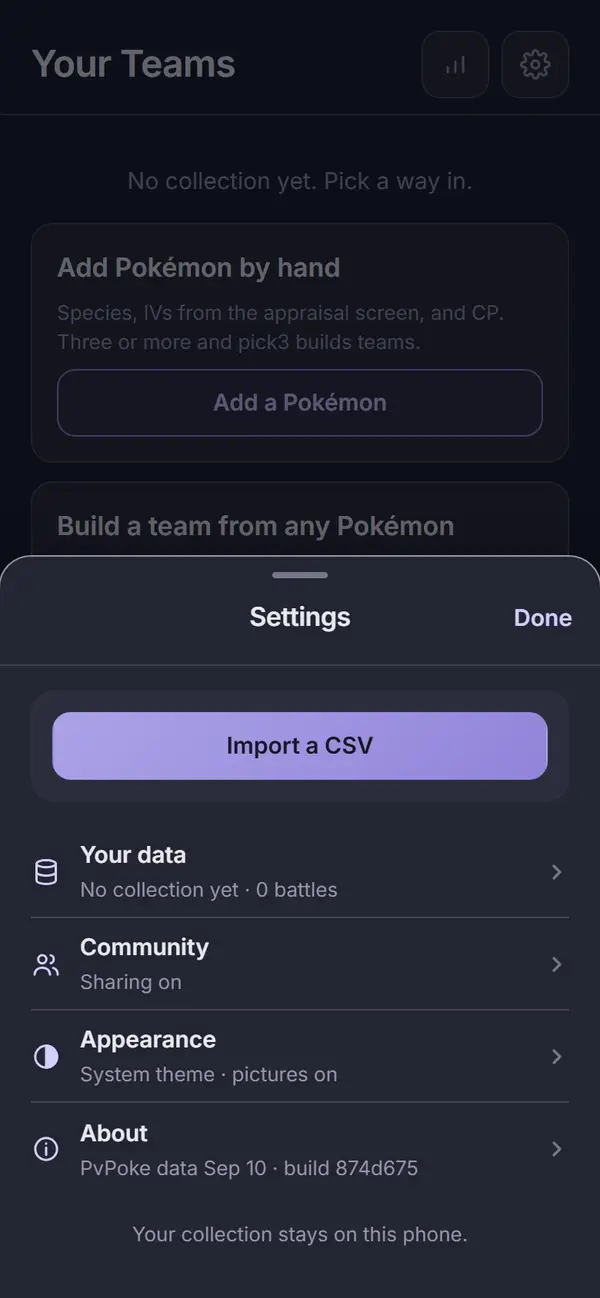
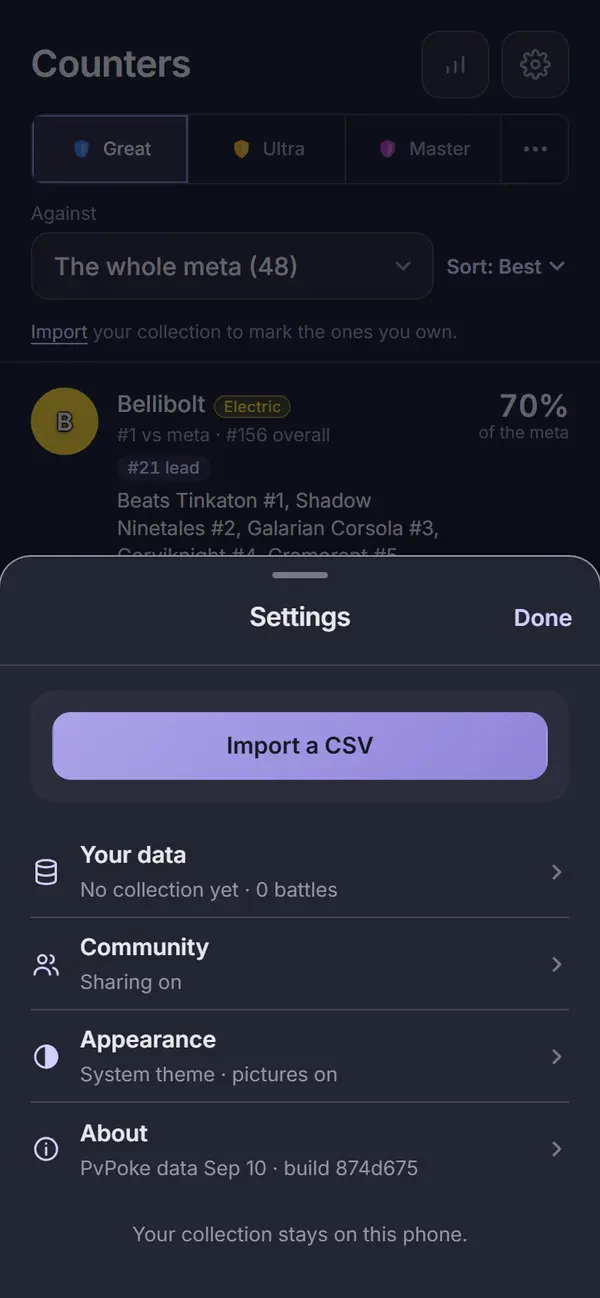
Design: Counters audit record
The Counters record for Travis to sign: the captures from the Task 6
fix round's audit run (aedfd95, PICK3_BUILD=874d675), both themes, as
WebP (the full-page 08-counters split in two at a row divider, since it
passes WebP's height limit); the automated checks, re-run for lint,
typecheck, tests, check-colors and check-tokens; both checklists; the
grid time; findings and fixes; the plan's and the ledger's rulings;
visible changes outside Counters; open items. Sign-off unticked.

Settings: the no-collection hub pair is re-converted (it now opens from
the Counters cog), with an after sign-off row and its round-3 open item
marked done. Its sign-off line is unchanged.

Claude-Session: https://claude.ai/code/session_01QpDSW9ZhLWToL3VMBP1mJq

diff --git a/docs/design/audits/counters.md b/docs/design/audits/counters.md
@@ -1,0 +1,296 @@
+# Audit: Counters
+
+Piece: 4, round 3 (Counters, with Who Beats X). Inventory entries:
+`docs/design/inventory/2026-09-22-inventory.md`, page 6 (Who Beats X) and page 7 (Counters, whole
+meta). Intake entry: `docs/design/inventory/2026-09-23-design-intake.md`, "Design 4: Common
+components, Navigation tab" (back and jumps); the approved renders are the ones from chat on
+2026-09-26 (Counters as one page with an Against picker, the full shield grid on its rows). Spec:
+`docs/superpowers/specs/2026-09-26-design-rest-of-app-design.md`, "Decisions" and "Counters (and
+Who Beats X)". Plan: `docs/superpowers/plans/2026-09-28-counters.md`. Branch `rest-of-app`,
+commits `fc35884` to `aedfd95`.
+
+Counters and Who Beats X are now one page. An Against picker chooses the whole meta or one
+Pokémon. Against one Pokémon, each row shows all nine shield pairings. Rows are not links; each
+row has labeled links. Opened from Your Meta, the page has a real Back.
+
+Your decisions for this page (spec, "Decisions", 2026-09-26):
+
+- **One page with an Against picker** in place of two pages that looked like two versions.
+- **The full nine-cell shield grid against one opponent** ("I like the full shield matchup. That
+  is what people are coming for that pvpoke doesn't provide"), not a percentage and not the
+  equal-shields row alone.
+- **Rows stop being links;** each row carries labeled links that say where they go ("That works").
+
+A note on sprites: this worktree's game data has no sprites, so Pokémon show type-colored
+initials, as on every signed record. In the full-page `08-counters`, rows far down the page show a
+broken-image icon in the dark capture (their sprite requests were still pending when the shot was
+taken). No sprite code changed.
+
+## Screenshots
+
+Dark and light at 390px, one pair per state, all from the Task 6 fix round's `npm run web:audit`
+run on 2026-09-28 (the code committed as `aedfd95`, `PICK3_BUILD=874d675`), converted to WebP
+(600px wide, quality 72). `08-counters` is the whole page, 80 rows; at 600px it is 26732px tall,
+past WebP's limit, so it is two images split at a row divider (rows 1 to 40, then 41 to 80).
+
+| State | Dark | Light |
+| --- | --- | --- |
+| `08-counters`, rows 1 to 40: the top header (meta.pick3.gg, cog), the league switcher, "Against: The whole meta (48)" with the filter icon, "PvPoke weights only (11 of 15 battles logged)" with "Sort: Best" on one line, then rows: token, name and types, "#1 vs meta · #156 overall", role tag, Beats and Loses, "70%" over "of the meta", "Build a team around it ›" | ![](img/08-counters-dark.webp) | ![](img/08-counters-light.webp) |
+| `08-counters`, rows 41 to 80: "View yours ›" beside Build on Flamigo; the last row, Charizard #80, ends above the tab bar | ![](img/08-counters-end-dark.webp) | ![](img/08-counters-end-light.webp) |
+| `counters-filters`: the Filters sheet, "Own or can build" chosen, the filter icon reads 1, rows behind filtered (11 of 80), "Build a team around it ›  View your Meltan ›" on one line | ![](img/counters-filters-dark.webp) | ![](img/counters-filters-light.webp) |
+| `18b-counters-no-collection`: no filter icon, "Sort: Best" beside the picker, "Import your collection to mark the ones you own." on one line, rows with only "Build a team around it ›" | ![](img/18b-counters-no-collection-dark.webp) | ![](img/18b-counters-no-collection-light.webp) |
+| `settings-hub-no-collection`: the Settings hub opened from the Counters cog (see Visible changes) | ![](img/settings-hub-no-collection-dark.webp) | ![](img/settings-hub-no-collection-light.webp) |
+| `23-counters-vs`: from Your Meta, "‹ Back", "Counters" centred, the cog; "Tinkaton" in the picker; "PvPoke's movesets; your log doesn't apply"; each row's shield grid with "shields" under it; Seismitoad (9 of 9) at #1, Charizard (8 of 9) at #2 | ![](img/23-counters-vs-dark.webp) | ![](img/23-counters-vs-light.webp) |
+| `counters-vs-filling`: the same page mid-fill (the worker held at a debugger pause), scrolled to where filled grids end: one filled grid, then Shadow Milotic and Shadow Charjabug with empty cells, still in the incoming order (#31, #32) | ![](img/counters-vs-filling-dark.webp) | ![](img/counters-vs-filling-light.webp) |
+| `24-counters-vs-outsider`: against Shadow Dragonite (not in PvPoke's meta group, 300 species simulated on the device), grids filled, "#1 vs Shadow Dragonite ·" then "#63 overall" kept together | ![](img/24-counters-vs-outsider-dark.webp) | ![](img/24-counters-vs-outsider-light.webp) |
+| `counters-against`: the Against sheet idle: the search at the top, focused, and "The whole meta ›" under it | ![](img/counters-against-dark.webp) | ![](img/counters-against-light.webp) |
+| `counters-against-search`: "mar" typed, 15 matches in the compact token grid, The whole meta hidden | ![](img/counters-against-search-dark.webp) | ![](img/counters-against-search-light.webp) |
+| `counters-against-scrolled`: the same matches box scrolled to its end (Mareanie to S. Mareep) | ![](img/counters-against-scrolled-dark.webp) | ![](img/counters-against-scrolled-light.webp) |
+| `counters-unranked`: `#/counters?vs=magikarp`: "Magikarp" in the picker, the filter icon, no line and no Sort, then "PvPoke does not rank Magikarp in Great League, so pick3 has no moveset to simulate it with." | ![](img/counters-unranked-dark.webp) | ![](img/counters-unranked-light.webp) |
+
+The script checks as it shoots: the sub header's title is centred (it logged "-0.0px") and Back
+reads "Back" and lands on `#/meta`; the row link text starts on the name column ("0.0px"; fails
+past 1px); `counters-filters` fails if the first row with two links wraps them; the no-collection
+page has no filter icon and the exact Import line; `counters-unranked` has no line and no Sort;
+`counters-vs-filling` waits for a filled cell, an empty cell and the loading bar;
+`counters-against-scrolled` fails if "mar" stops filling the box.
+
+Not captured, covered by `apps/web/test/counters.test.tsx`: the loading bar and its grid stage
+("Playing every shield pairing on this phone"; in `counters-vs-filling` it is above, scrolled away);
+the "shields" `Term` open; the Sort dropdown open (a native picker); "Nothing here yet. Try another
+filter."
+
+## Grid time
+
+The spec's estimate was about 0.5 s for 720 battles (80 rows, nine each) in Node.
+
+- **Node, desktop (Task 1):** 280 to 430 ms for 720 battles, two runs each against Altaria,
+  Charjabug and Quagsire (an outsider).
+- **The built app, desktop (Task 6):** the outsider run, Shadow Dragonite, took 160 to 181 ms for
+  its grids across runs (165 ms in the run these images come from, after simulating 300 species;
+  the whole result at 516 ms). The Tinkaton run logged 4321 ms, but that number includes the
+  deliberate debugger pause that holds the worker for `counters-vs-filling`, so it is not a grid
+  time. An earlier unheld probe of Tinkaton: 10 batches of 8 rows in about 210 ms.
+
+Not measured on a phone (see Open items).
+
+## Automated checks
+
+- [x] `npm run web:audit` clean for this page's screens (all ten names above in `AUDIT_ENFORCED`,
+      plus `settings-hub-no-collection`): the Task 6 fix round's run on the `aedfd95` code with
+      `PICK3_BUILD=874d675` exited 0 with zero findings on every enforced name in both themes and
+      every enforced name captured. No NEVER line; the only "Not on screen, unmeasured" lines are
+      the known eight `settings-about-leaves` ones, each measured in `settings-about`. 67 findings
+      remain on screens not yet redesigned (Welcome, Import, Scan list, Report, Add Pokémon), none
+      failing. I did not re-run it for this record. The audit does not check text scrolled out of
+      a fixed-height list (Open items); `counters-against-scrolled` covers Counters' one such list.
+- [x] no console errors: the run printed no "Browser errors" section.
+- [x] `npm run lint`, `npm run typecheck`, `npm test`, `npm run check-colors`, `npm run
+      check-tokens`: re-run for this record on 2026-09-28 on `aedfd95`. lint exit 0; typecheck
+      exit 0; 147 files, 1426 tests passed; check-colors exit 0; "check-tokens: ok". `npm run
+      ui:audit` (the ui Select rule now shared with the Against picker): "gallery audit: clean in
+      dark and light" in Task 6, not re-run here.
+
+## Aesthetics
+
+- [x] colors from tokens, in their roles: violet on what you tap (the header icons, "Sort: Best",
+      the filter icon and its badge, the row links, the selected league); green and red only as
+      the W and L cells of the grid, the outcome colors, as on Log a Battle (`23-counters-vs`); no
+      pink (the grid is a simulation, not measured data) and no destroying
+      red anywhere (all captures). `check-colors` clean.
+- [x] at most four text levels, one page title: "Counters"; the row name and the score; the rank,
+      Beats and Loses lines; tags, "of the meta" and the grid's axis and caption (`08-counters`,
+      `23-counters-vs`). Each sheet has its own title ("Filters", "Against").
+- [x] one filled primary button: none on the page, which is right, since every action is a row
+      link or a control (all captures). Settings' "Import a CSV" is the sheet's own
+      (`settings-hub-no-collection`).
+- [x] chips tapped, tags read: the old chips are gone; the ownership choice is a `Seg` in the
+      Filters sheet (`counters-filters`); types and role tags are read-only, and the overall-rank
+      tag is gone from the role tags, since the rank line already has it (`08-counters`; tested).
+- [x] the right header variant: `Header variant="top"` "Counters" with meta.pick3.gg and the cog
+      on the tab (`08-counters`, `18b-counters-no-collection`, `counters-unranked`);
+      `Header variant="sub"` with "Back", the title centred and the cog when jumped to from Your
+      Meta (`23-counters-vs`, `counters-vs-filling`, `24-counters-vs-outsider`).
+- [x] rows align; gutters and the 8px base hold: one gutter from the header to the last row; link
+      text on the name column (measured, 0.0px); grids beside the text with room, none crowding it
+      (`23-counters-vs`). Exception under Open items: a long "View your Shadow Rookidee ›" wraps to
+      its own line, about 2px left of the link above it (`08-counters`, row 40).
+- [ ] sprites unchanged: cannot confirm (no sprite build, see the top). No sprite code changed.
+- [x] at most one line of text before the first result: the facing line, the one-opponent line or
+      the Import line, each one line with Sort beside it or above it (`08-counters`,
+      `23-counters-vs`, `18b-counters-no-collection`); none under an unranked opponent
+      (`counters-unranked`). The two description paragraphs are gone.
+- [x] light as readable as dark: eleven matched pairs, and the audit's contrast pass is clean in
+      both themes.
+
+## Functionality
+
+- [x] every "must keep" from inventory pages 6 and 7: a counter list for any one opponent,
+      simulated on the device, the top 300 for an outsider (`24-counters-vs-outsider`); per row
+      the rank against this opponent, the overall rank, types, role tags, Beats and Loses with
+      ranks (`08-counters`, `23-counters-vs`), ownership as "View yours ›" or "View your Meltan ›"
+      (`counters-filters`), and the percentage on the whole meta (against one opponent the grid
+      replaces it, your decision); the ownership filter and the paths to your Pokémon and to Build
+      (tested); the honesty lines, now "PvPoke's movesets; your log doesn't apply" and the
+      unranked empty state (`23-counters-vs`, `counters-unranked`); a meta.pick3.gg link lands in
+      its league (tested); the facing weight line on the whole meta (`08-counters`).
+- [x] every control does what its label says (tests): the cog opens Settings (and the capture now
+      opens it from this cog); the picker reads "The whole meta (48)" or the opponent and opens
+      Against; typing filters species, The whole meta shows only with an empty search; choosing
+      replaces the history entry and keeps the back mark; Sort offers Best and Under the radar;
+      the Filters `Seg` filters rows and the icon reads "Filters, 1 on"; "Build a team around it ›"
+      sets Build's lead and goes to Build; the View links open the Pokémon's page.
+- [x] back returns to the origin with filters and scroll: Back from a jump returns to Your Meta,
+      even after trying several opponents (tested; the script checks it lands on `#/meta`); Back
+      from a Pokémon's page returns with the filter, the sort and the scroll (tested,
+      `scrollTo(0, 240)`); each list keeps its own scroll (tested). One gap by ruling 11.
+- [x] input layout rule: the Against sheet puts the search first, the matches directly under it
+      in a fixed-height box that scrolls on its own, and The whole meta last, hidden while
+      searching (`counters-against`, `counters-against-search`, `counters-against-scrolled`).
+- [x] icon buttons named; focus visible: "Settings", "meta.pick3.gg, the community meta",
+      "Filters" or "Filters, 1 on", the picker named by its label and value ("Against Tinkaton"),
+      the Sort combobox named "Sort", the grid read as "Wins N of 9 shield pairings" (tests); the
+      picker shares the ui Select's focus ring.
+- [x] product rules: everything runs on the device; no new outbound call; `index.html` and
+      `connect-src` unchanged; the collection stays in IndexedDB. Assumptions: the one-opponent
+      line and the "shields" `Term` say what each cell is (PvPoke's movesets and default IVs).
+- [x] tests cover the new behavior: `apps/web/test/counters.test.tsx` (23 tests: headers and
+      Back, the picker and the Against sheet, replace-navigation, the line and Sort, the Filters
+      sheet, no collection, rows not links, the grid and its `Term`, the links, the round trip,
+      loading and empty cells, per-list scroll, re-sort in place, both empty messages);
+      `countersGrid.test.tsx` (5: the stream, drops on a league or opponent change, grids keep
+      filling off the page, the WorkerHost routing); `shieldGrid.test.tsx` (6);
+      `packages/engine/test/counters/counters.test.ts` (the grid, its order, batches, the
+      movesets); `store.test.tsx` and `yourMetaScreen.test.tsx` (the back mark).
+
+## Findings and fixes
+
+| Finding | Fix | Commit |
+| --- | --- | --- |
+| Task 1: an opponent in PvPoke's meta group battled at its rankings moveset in the grid, but at its meta-group moveset in the matrix that chose the 80, so equal-shield cells could disagree with the list for 3 Great League species (Shadow Forretress, Shadow Sableye, Talonflame). | The meta group's moveset (ruling 9). | `929a4b3` |
+| Task 1 review, Important: an outsider's grid moveset differed from the one its simulated column used, for 18 species in Ultra and Master. | One helper for both. | `b1014b6` |
+| Task 1 review: a species the meta group lists twice (Shadow Forretress) took its last listing. | Its first listing, the matrix's first column. | `b1014b6` |
+| Task 2: a dropped run's half-filled rows could show later, looking finished with empty cells. | A drop also clears them. | `c82d74c` |
+| Task 5 review, Important: one shared scroll key restored the whole meta's offset onto an opponent's list. | One key per list. | `1d43539` |
+| Task 5 review: the Against search did not take focus (the sheet took it back). | The search takes focus after the sheet's own. | `1d43539` |
+| Task 5, looking: "Sort: Best" wrapped under a long line; two row links wrapped onto two 44px lines. | Sort does not wrap; the links row spans the row. | `a15920f` |
+| Task 6: without a collection the Import line wrapped, leaving "own." alone beside Sort. | Copy kept; Sort moves beside the picker (ruling 16). | `f694bb7` |
+| Task 5 review: the picker copied the ui Select's CSS. | The ui rule covers both (Visible changes). | `f694bb7` |
+| Task 6: "#1 vs Shadow Dragonite · #63 overall" broke before "overall". | A no-break space keeps "#63 overall" together. | `f694bb7` |
+| Audit: the Filters `Seg`'s "All" was 39x44. | 44px wide. | `f694bb7` |
+| Task 6: the audit did not report Against matches scrolled out of the box. | `counters-against-scrolled` (ruling 18); the tool fix is ruling 12. | `f694bb7` |
+| Controller, on `23-counters-vs`: the row links started at the row's left edge, under the token. | They start on the name column; the script measures it. | `aedfd95` |
+| Task 6 review: under an unranked opponent, the one-opponent line and Sort sat over nothing. | Both hidden there (ruling 17). | `aedfd95` |
+
+## Rulings
+
+From the plan:
+
+1. **The grid uses the matrix's inputs:** PvPoke default IVs, the rankings' movesets, the league's
+   CP cap, the same battle settings; each cell is the simulator's rating. Ruling 9 refines the
+   opponent's moveset. [If wrong: the grid disagrees with the list it sits in.]
+2. **Order against one opponent:** cells won out of nine, then the mean rating, then PvPoke's
+   overall rank. While grids fill, rows keep their first order; the list re-sorts once at the end.
+   [If wrong: one sort.]
+3. **Streaming:** rows first with empty grids, then a batch of 10 grids at a time, then the sorted
+   result with the grid time; anything from a run whose league or opponent changed is dropped.
+   [If wrong: rows wait for all 80 grids.]
+4. **The back mark is `from=1` on the link.** Your Meta's "Who beats it" adds it; the Against
+   picker keeps it. [If wrong: one link parameter.]
+5. **The Against sheet searches Log a Battle's species list**, in the same compact token grid and
+   cap; "The whole meta" is last, hidden while searching. [If wrong: the sheet's source.]
+6. **Filters is a `Seg` in a sheet; Sort is an inline dropdown;** the filter count is 1 when the
+   filter is not All. [If wrong: two controls.]
+7. **Capture names** as listed above; `09-counters-own` is gone with the chips. [If wrong: names.]
+
+From the controller during the build:
+
+8. **Dead components go with their tests:** `MetaButton` is removed with its test; `HeadCog` stays,
+   since the older header (Import, Shared team, Add Pokémon) still uses it. [If wrong: re-add one
+   small component.]
+9. **A meta-group opponent battles at the meta group's moveset** (the one that chose the 80); an
+   outsider at its rankings moveset (the one its simulated column used). [If wrong: a one-line
+   swap; 3 Great League species show different equal-shield cells.]
+10. **The grid's "Wins N of 9 shield pairings" label stays on Log a Battle's card too.** It adds
+    the count the one-word verdict lacks. [If wrong: one extra announcement per member for
+    screen-reader users.]
+11. **Going back to an opponent already visited in the Against sheet keeps the current scroll,**
+    not that list's saved one. Nothing wrong lands. [If wrong: a scroll, on a rare path.]
+12. **The audit's scroll-clip gap is fixed in this branch's final fix wave,** with a full
+    `web:audit` re-run. [If wrong: a bigger final wave, possibly new findings on signed pages.]
+
+Made while building:
+
+13. **The host's `counters` call gained `league?` before `onPartial?`,** to match the worker host.
+    [If wrong: a parameter order.]
+14. **Grids keep filling when you step off Counters** (to a Pokémon's page); only a league,
+    source, window or opponent change drops a run. [If wrong: compute spent off the page.]
+15. **A dropped run clears its half-filled rows** (see Findings). [If wrong: a moment of Loading
+    on return.]
+16. **Without a collection, Sort sits beside the Against picker** (there is no filter icon then),
+    so the spec's Import line fits one line. [If wrong: Sort's place (Open items).]
+17. **An unranked opponent shows no line and no Sort;** the empty message explains it. The spec
+    lists the line for both modes. [If wrong: one line back.]
+18. **`counters-against-scrolled` is a tenth enforced capture,** for the rule that a scrolling
+    sheet list needs a scrolled capture. [If wrong: one capture.]
+
+## Visible changes outside Counters
+
+- **The shield grid is shared** (`apps/web/src/components/ShieldGrid.tsx`, moved from Log a
+  Battle's `OpponentCard`). Log a Battle looks the same: `21-log-battle` and `log-battle-card`
+  match their signed images (compared in Task 6; I compared `log-battle-card` side by side
+  again). For screen readers its grid is no longer hidden: it reads "Wins N of 9 shield
+  pairings" (ruling 10). New: empty cells while a row fills, and a larger row size.
+- **The route's back mark:** `#/counters?vs=<id>&from=1`. Your Meta's "Who beats it" links carry
+  it; meta.pick3.gg links never do, so they get the top header.
+- **The grid in the engine and the worker:** `counterGrids` and `CounterEntry.grid` in the engine;
+  the worker streams rows, then grids, then the result with `gridMs`; a new progress stage. The
+  engine's `specFor` is now exported. Whole-meta Counters is unchanged.
+- **The ui Select's rule is shared with the Against picker** (`packages/ui/base.css`,
+  `.select-wrap > button`): same look and focus ring, no change to any Select (`ui:audit` clean).
+- **`MetaButton` is removed,** with its test and CSS; `.head-link`, `.counter-own` and the old
+  row-link CSS went too. `MetaTags` can leave out the overall-rank tag.
+- **The Settings no-collection shot is back on the Counters cog,** restoring the check that
+  Counters' cog opens Settings (Settings' round-3 open item). `settings.md` has an after sign-off
+  note; its image pair is replaced (the page behind the sheet is now Counters).
+- **`screens.mjs`:** ten Counters captures, all enforced; it logs the grid time through a Worker
+  wrapper (automation only; the app has no hook).
+
+## Open items for Travis
+
+- **Sort moves when there is no collection:** beside the Against picker
+  (`18b-counters-no-collection`) instead of on the line (`08-counters`), so the Import line fits
+  one line (ruling 16). Keep, or shorten the Import line and keep Sort in one place.
+- **Two row links share a line only for short names.** "Build a team around it ›  View your
+  Meltan ›" fits; "View your Shadow Rookidee ›" wraps to its own line, about 2px left of the link
+  above it (`08-counters`, Shadow Corviknight, row 40). Keep the wrap, or stack the links always.
+- **The sub header carries only Settings,** not the meta.pick3.gg link, as on the Pokémon page
+  (`23-counters-vs`). Say if it should carry both.
+- **The audit tool does not check text scrolled out of a fixed-height list** (it trusts axe, which
+  skips clipped text). Being fixed in this branch's final fix wave (ruling 12), with a full
+  re-run; until then `counters-against-scrolled` covers Counters. Log a Battle's and New set's
+  token boxes may hide the same.
+- **The Teams Filters sheet's title is left-aligned;** Counters' sheets and Settings centre theirs.
+  Not changed here.
+- **A failure is said only on the whole meta with a collection.** When counters cannot be computed,
+  the page gets no rows and the reason "Counters could not be computed" in the facing line. The old
+  page always showed that line; now it shows only on the whole meta with a collection. Against one
+  opponent, or without a collection, a failure reads "Nothing here yet. Try another filter."
+  Not tested, not captured.
+- **Grid time on a phone:** measured only on a desktop (Grid time). `gridMs` is in the result but
+  shown nowhere, so a phone check needs the dev tools.
+- **Smaller, deferred during the build:**
+  - An import while grids are filling can re-land rows with the old owned marks.
+  - The last batch posts one extra unsorted partial before the result; the host's comment says
+    partials always come with an opponent (not for an unranked one); no unit test for the
+    worker's no-grid branch.
+  - The engine test's 2-shields-against-0 check holds for the fixture's pairs only; `gridMs` also
+    times the final sort.
+  - No test for `from=1` without an opponent.
+  - `counters-vs-filling` can race on a fast machine (it fails loudly if so).
+  - Long names in the Against grid are cut ("S. Alolan M...", "S. Marshto..."), as in Log a
+    Battle's grid (`counters-against-search`).
+
+## Sign-off
+
+- [ ] Travis, <date>

diff --git a/docs/design/audits/settings.md b/docs/design/audits/settings.md
@@ -34,7 +34,7 @@ lost its line when there is no collection.
 | State | Dark | Light |
 | --- | --- | --- |
 | `settings-hub`: the Import card with the one primary, the four rows with live summaries ("148 Pokémon · 13 battles", "Sharing on", "System theme · pictures on", "PvPoke data Sep 10 · build 874d675"), Forget in red, the foot line | ![](img/settings-hub-dark.webp) | ![](img/settings-hub-light.webp) |
-| `settings-hub-no-collection`: the Import card as "Import a CSV" alone (no update line), "No collection yet · 0 battles", no Forget | ![](img/settings-hub-no-collection-dark.webp) | ![](img/settings-hub-no-collection-light.webp) |
+| `settings-hub-no-collection`: the Import card as "Import a CSV" alone (no update line), "No collection yet · 0 battles", no Forget. Since round 3 it opens from the Counters cog, so Counters is behind the sheet (after sign-off, see Findings) | ![](img/settings-hub-no-collection-dark.webp) | ![](img/settings-hub-no-collection-light.webp) |
 | `settings-your-data`: Collection ("148 Pokémon · 90 kinds", "Last import"), Your log (Start fresh, Export log, Import log, "Files stay under your control.") | ![](img/settings-your-data-dark.webp) | ![](img/settings-your-data-light.webp) |
 | `settings-log-imported`: the Import log result on one line, "Added 0 sets, skipped 4 already here." | ![](img/settings-log-imported-dark.webp) | ![](img/settings-log-imported-light.webp) |
 | `settings-confirm-fresh`: Start fresh's confirm in the default (violet) tone | ![](img/settings-confirm-fresh-dark.webp) | ![](img/settings-confirm-fresh-light.webp) |
@@ -170,6 +170,7 @@ it; the trainer counter (it shows only once a real count arrives, and automation
 | Final review, Minor: the battle count read had no `.catch`; the Diagnostics empty line was longer than the plan's; a stale comment named the Filters sheet; the clip walk did not say what it leaves. | The read records a `settings-count` error; the line is "No errors recorded."; the comment names About; an element that is itself fixed is not clipped, and the absolute case is named in a comment. | `8b40f19` |
 | Final review, Minor: test gaps (Sharing off on the hub after Stop and delete; the Import log error sentence; Forget closing the sheet; the neutral line checked one level up; an unrestored `window.confirm` spy). | Each is covered or fixed in `settings.test.tsx`. Test only. | `8b40f19` |
 | After sign-off, exclusion by the Pokémon as it battles (Travis, 2026-09-27; `pokemon-detail.md`): Settings had no place to see or clear what is left out of teams. | Your data gains an "Excluded from teams" block after Your log: one chip per excluded Pokémon by the name it battles as, each X named "Include X again", and "Include all again" (violet, `Button variant="secondary"`) behind a default-tone `ConfirmSheet` ("Include every excluded Pokémon again?", "They can appear in team recommendations again.", Include all / Keep them out). With none excluded it reads "None excluded. Turn a Pokémon off on its page to leave it out of teams." The list is the same component as Teams' Filters sheet (`ExcludedList`). `settings.test.tsx` pins the order, the line, X, the confirm's cancel and confirm. New captures, both enforced: `settings-your-data-excluded` (two seeded exclusions, Melmetal and Shadow Greninja, the saved settings restored after) ![](img/settings-your-data-excluded-dark.webp) ![](img/settings-your-data-excluded-light.webp) and `settings-confirm-include-all` ![](img/settings-confirm-include-all-dark.webp) ![](img/settings-confirm-include-all-light.webp). Re-converted: `settings-your-data` (dark and light), which now ends with the block and its "None excluded" line. `web:audit` 2026-09-27 (`c6b4819` code, `PICK3_BUILD=874d675`): exit 0, zero findings on every enforced Settings name in both themes, no NEVER line; checked by eye in both themes. | `c6b4819`, and the commit adding this row |
+| After sign-off, round 3 (Counters, 2026-09-28): the no-collection hub was shot from the Teams cog (Ruling 12), so no capture checked that the Counters cog opens Settings. | `screens.mjs` opens it from the Counters top header's cog again, with the same hub checks; the Teams-side step is gone. The pair above is re-converted from the Counters record's run (`aedfd95` code, `PICK3_BUILD=874d675`): the same hub, "Import a CSV" alone, "No collection yet · 0 battles", no Forget, with Counters behind the sheet. `web:audit` exit 0, zero findings on every enforced name in both themes, no NEVER line; checked by eye in both themes. | `f694bb7`, and the commit adding this row |
 
 ## Rulings
 
@@ -246,9 +247,9 @@ Made while building:
   the button alone; "Update or replace the collection on this phone." shows only when there is a
   collection to update (`settings-hub-no-collection`, tested). CLAUDE.md's Screens line now names
   `settings/` instead of the deleted `Sheet`.
-- **Round 3 (Counters) must move `settings-hub-no-collection` back to the Counters no-collection
-  cog** (Ruling 12), restoring the check that the Counters cog opens Settings, once Counters
-  passes its own audit.
+- **Done after sign-off (round 3, `f694bb7`): `settings-hub-no-collection` is back on the
+  Counters no-collection cog** (Ruling 12), restoring the check that the Counters cog opens
+  Settings, now that Counters passes its own audit (see Findings and `counters.md`).
 - **Smaller, deferred during the build:**
   - The `Switch` row's gap is 8px; the old `.toggle` rows use 12px.
   - The Your data summary shows no battle count for a moment, until the log is read.
